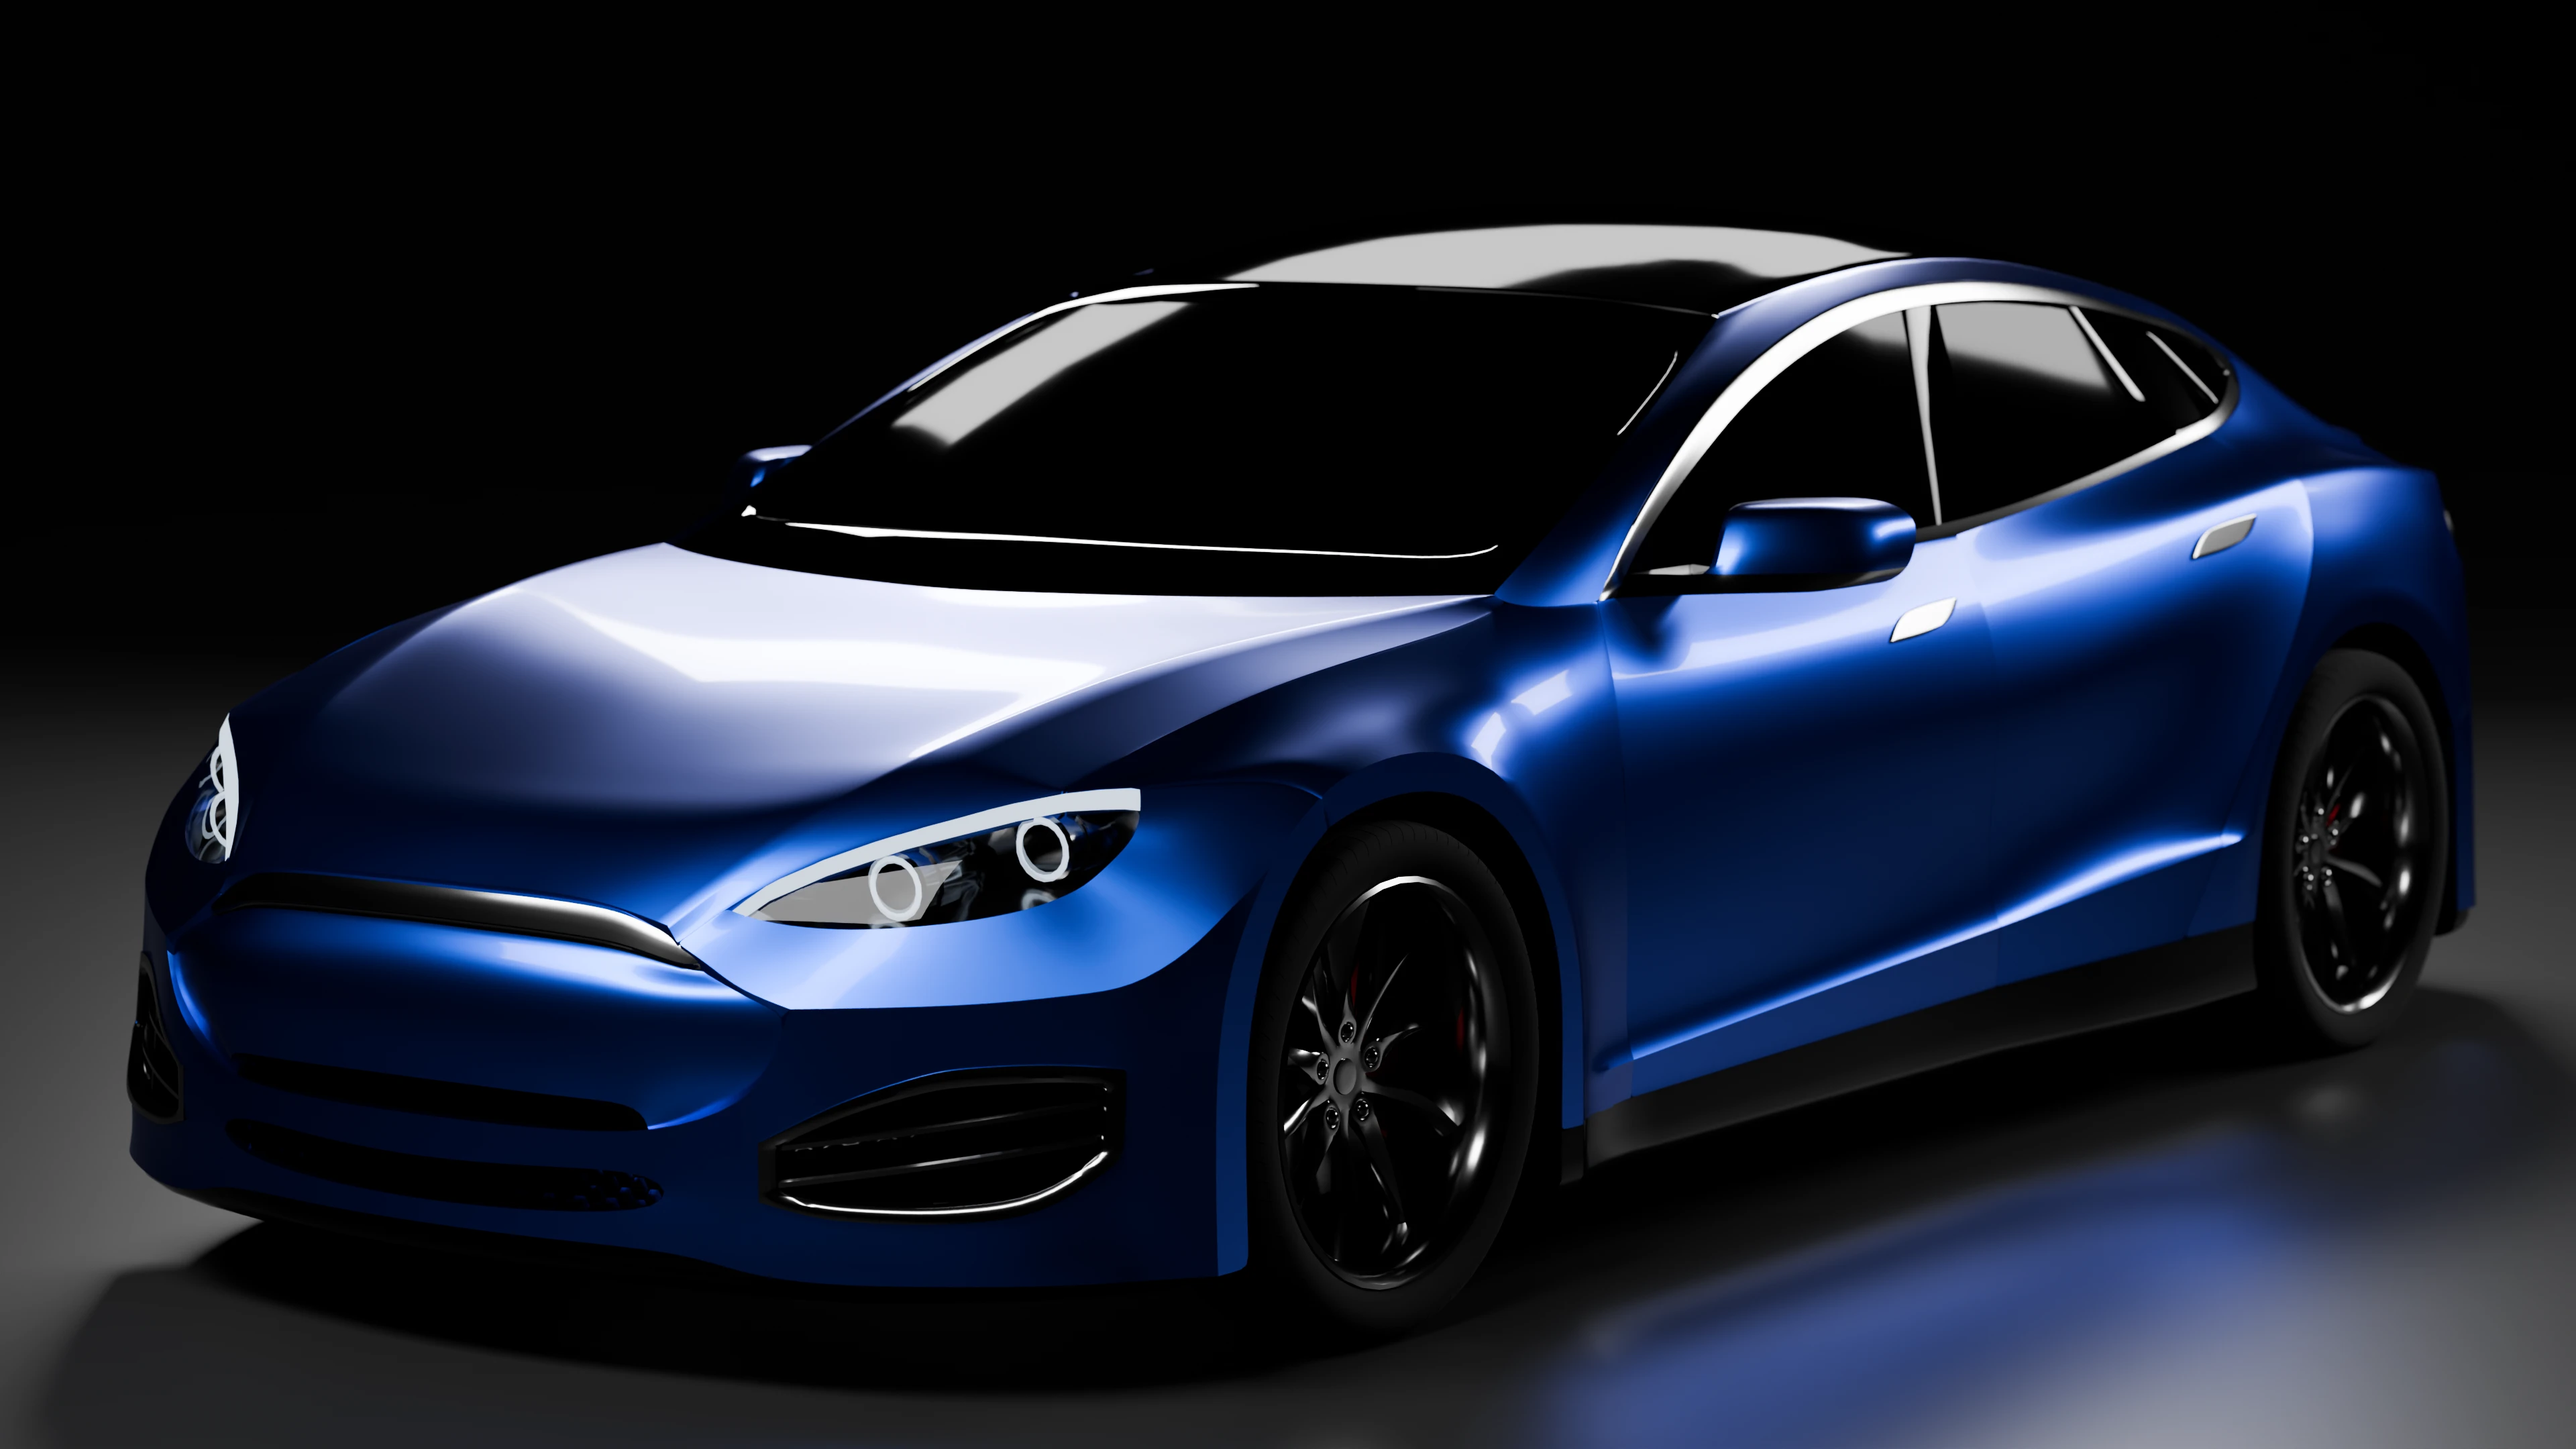
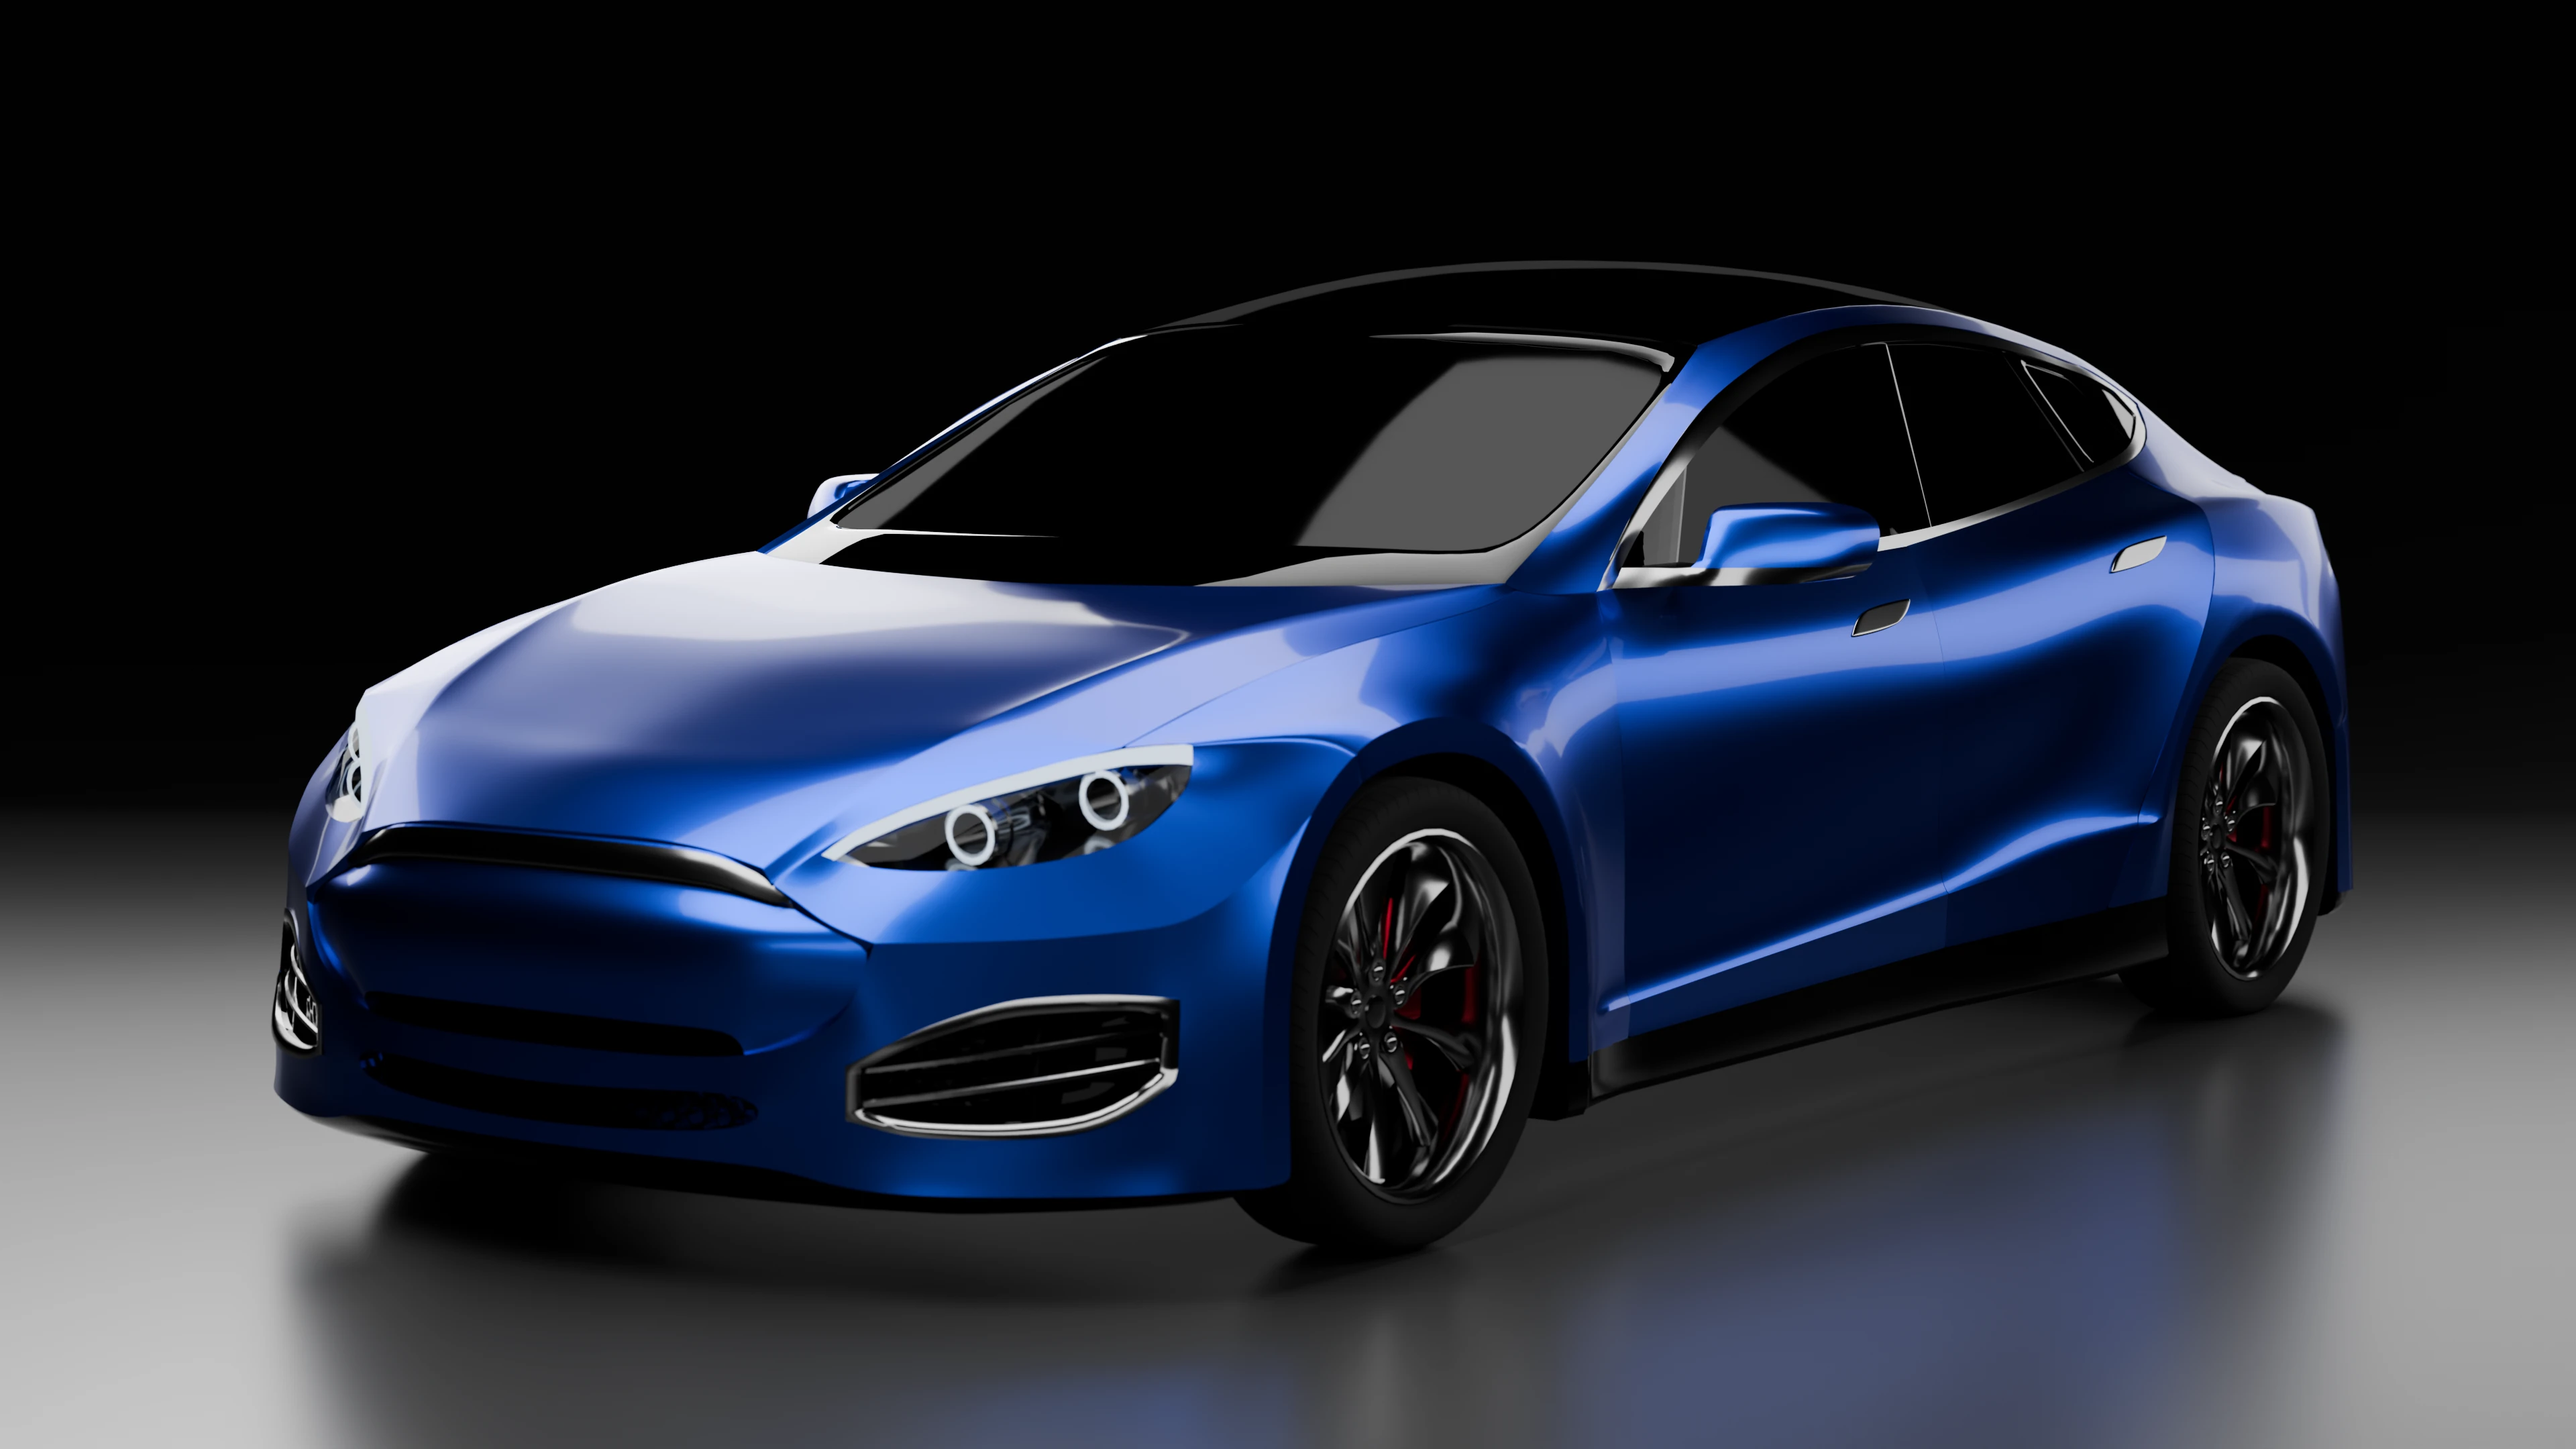
Create new car page

diff --git a/src/views/CarProject.vue b/src/views/CarProject.vue
@@ -1,10 +1,10 @@
 <template>
   <Header />
-  <div class="untitled-image" :style="{backgroundImage: 'url(' + img + ')' }">
-        <!-- <h1 class="untitled-text">
-            <span>N</span><span>E</span><span>O</span><span>F</span><span>Y</span>
-        </h1> -->
-    </div>
+  <img :src="imgFront" class="untitled-image">
+  <img :src="img" class="untitled-image">
+  <img :src="imgSide" class="untitled-image">
+  <img :src="imgBack" class="untitled-image">
+  <img :src="imgTop" class="untitled-image">
   <!-- <div class="video-container">
     <div class="video-text">
       <h1>
@@ -36,8 +36,12 @@ export default {
   },
   data() {
     return {
-      vid: require('@/img/untitled/0000-1410.mp4'),
+      // vid: require('@/img/untitled/0000-1410.mp4'),
       img: require('@/img/untitled/Car.webp'),
+      imgFront: require('@/img/untitled/Car-front.webp'),
+      imgBack: require('@/img/untitled/Car-back.webp'),
+      imgSide: require('@/img/untitled/Car-side.webp'),
+      imgTop: require('@/img/untitled/Car-top.webp'),
     };
   }
 };

diff --git a/src/styles/car-project.scss b/src/styles/car-project.scss
@@ -96,12 +96,11 @@
 
 .untitled-image {
     width: 100%;
-    height: 100vh;
-    background-position: center;
-    background-size: cover;
+    height: fit-content;
     display: flex;
     align-items: center;
     justify-content: center;
+    object-fit: cover;
 }
 
 .untitled-text {
@@ -115,10 +114,4 @@
     background: linear-gradient(rgb(255, 255, 255, 0.1), rgb(255, 255, 255, 0.8));
     background-clip: text;
     color: transparent;
-}
-
-@media (max-width: 768px) {
-    .untitled-image {
-        background-position: 20% center;
-    }
 }

diff --git a/public/main.css b/public/main.css
@@ -362,12 +362,11 @@ h1, p {
 }
 .untitled-image {
   width: 100%;
-  height: 100vh;
-  background-position: center;
-  background-size: cover;
+  height: fit-content;
   display: flex;
   align-items: center;
   justify-content: center;
+  object-fit: cover;
 }
 
 .untitled-text {
@@ -383,11 +382,6 @@ h1, p {
   color: transparent;
 }
 
-@media (max-width: 768px) {
-  .untitled-image {
-    background-position: 20% center;
-  }
-}
 .info-text {
   max-width: 700px;
   margin-inline: auto;

diff --git a/src/router/index.js b/src/router/index.js
@@ -12,9 +12,9 @@ const routes = [
     component: () => import('../views/BananaDrama.vue')
   },
   {
-    path: '/untitled',
-    name: 'Untitled',
-    component: () => import('../views/Untitled.vue')
+    path: '/car-project',
+    name: 'CarProject',
+    component: () => import('../views/CarProject.vue')
   },
   {
     path: '/neofyInfo',

diff --git a/src/components/Header.vue b/src/components/Header.vue
@@ -23,8 +23,8 @@
 					</a>
 				</div>
 				<div class="page-link">
-					<a href="/untitled">
-						Untitled Project
+					<a href="/car-project">
+						Car Project
 					</a>
 				</div>
 			</div>

diff --git a/src/styles/main.scss b/src/styles/main.scss
@@ -4,5 +4,5 @@
 @import './header.scss';
 @import './home.scss';
 @import './index.scss';
-@import './untitled.scss';
+@import './car-project.scss';
 @import './neofyInfo.scss';
